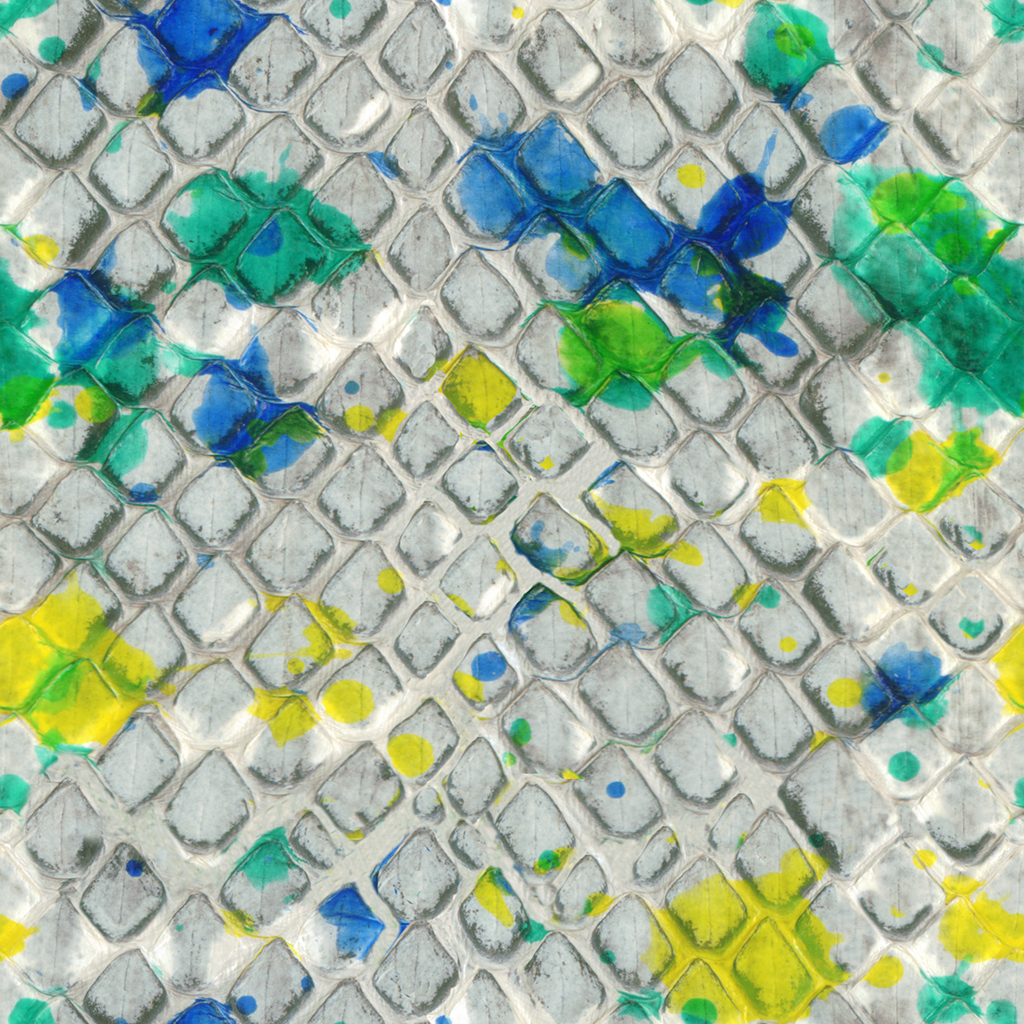
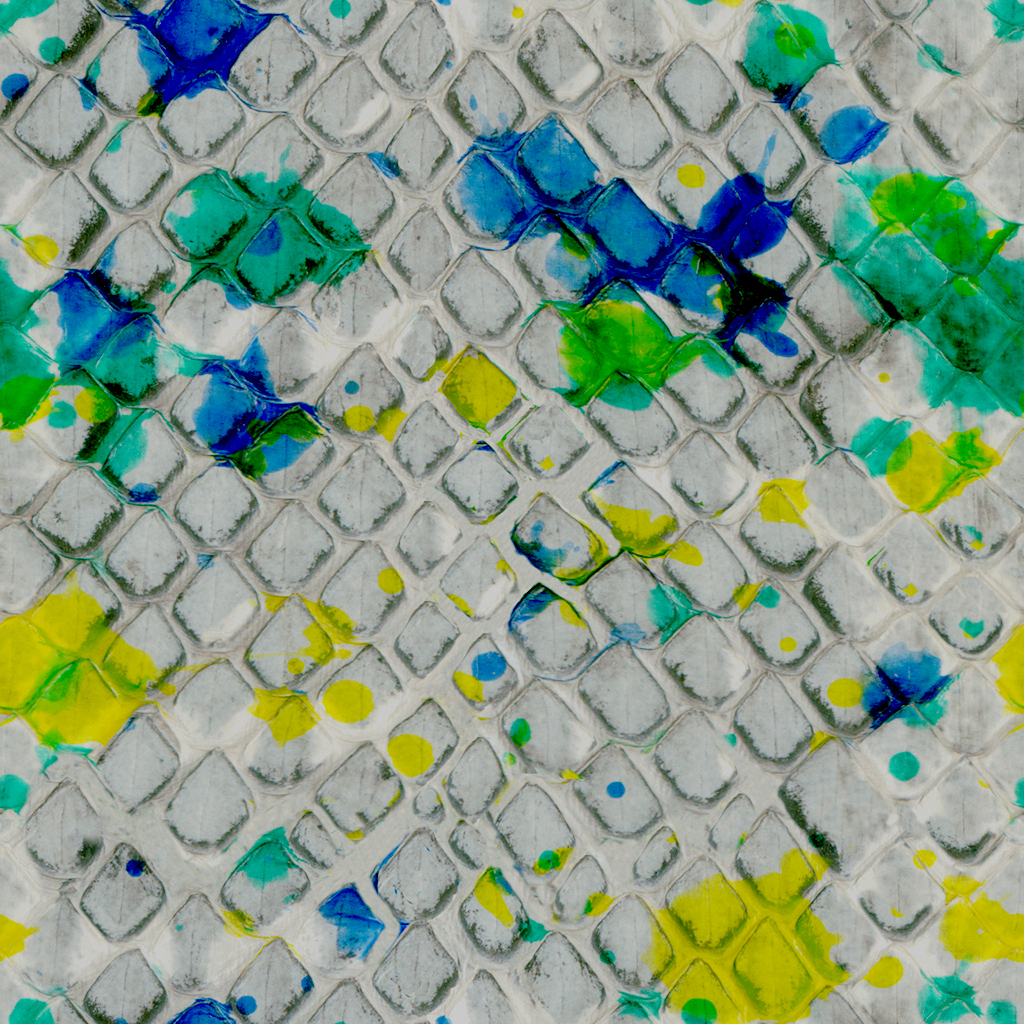
materials update

diff --git a/threeMaterials.js b/threeMaterials.js
@@ -112,7 +112,6 @@ function createLFSmat(color) {
         bumpMap: bump,
         bumpScale: 0.4,
         color: color,
-        //envMap: background,
         metalness: 0.5,
         metalnessMap: metalnessM,
         normalMap: normal,
@@ -125,11 +124,10 @@ function createLFSmat(color) {
 //LLH mat   //OK
 function createLLHmat() {
     var diff = texLoader.load('tex/LLH-01_diff.jpg');
-    repeatTex(diff, 1.2);
+    repeatTex(diff, 1.4);
     var mat = new THREE.MeshStandardMaterial({
         bumpMap: diff,
         bumpScale: 0.3,
-        //envMap: background,
         map: diff,
         metalness: 0,
         roughness: 0.8
@@ -160,18 +158,13 @@ function createLSNmat(diffuse, bump, repeat) {
     repeatTex(diff, repeat);
     var bump = texLoader.load(bump);
     repeatTex(bump, repeat);
-    var metalnessM = texLoader.load('tex/LSN-metalness.jpg');
-    repeatTex(metalnessM, repeat);
-    var roughtnessM = texLoader.load('tex/LSN-roughness.jpg');
-    repeatTex(roughtnessM, repeat);
+
     var mat = new THREE.MeshStandardMaterial({
         bumpMap: bump,
         bumpScale: -0.16,
         map: diff,
         metalness: 0.1,
-        metalnessMap : metalnessM,
         roughness: 0.7,
-        roughnessMap : roughtnessM,
     });
 
     return mat;
@@ -199,31 +192,47 @@ function createLSUmat(color) {
 //Metallic Leather mat  //OKish
 function createMLmat(color) {
     var bump = texLoader.load('tex/ML-bump.jpg');
-    repeatTex(bump, 1.2);
+    repeatTex(bump, 1.4);
     var mat = new THREE.MeshPhysicalMaterial({
         bumpMap: bump,
-        bumpScale: 0.5,
+        bumpScale: 0.24,
         color: color,
-        metalness: 0.1,
-        reflectivity: 0.3,
-        roughness: 0.92,
+        metalness: 0,
+        reflectivity: 0.24,
+        roughness: 1,
     });
 
     return mat;
 }
 
-//MIRROR Leather mat  //OKish
+//MIRROR Leather mat 
 function createMRmat(color) {
-    var bump = texLoader.load('tex/ML-bump.jpg');
-    repeatTex(bump, 1.2);
-    var mat = new THREE.MeshPhysicalMaterial({
+    var bump = texLoader.load('tex/MR-metal-bump.jpg');
+    repeatTex(bump, 4);
+    var normal = texLoader.load('tex/MR-normal.jpg');
+    repeatTex(normal, 4);
+    var mat = new THREE.MeshStandardMaterial({
+        bumpMap: bump,
+        bumpScale: 0.4,
+        color: color,
+        metalness: 0.48,
+        normalMap: normal,
+        roughness: 0.54,
+    });
+
+    return mat;
+}
+
+//BUCKLES  mat  
+function createBKmat(color) {
+    var bump = texLoader.load('tex/MR-metal-bump.jpg');
+    repeatTex(bump, 4);
+    var mat = new THREE.MeshStandardMaterial({
         bumpMap: bump,
         bumpScale: 0.1,
         color: color,
-        //envMap: background,
-        metalness: 0.5,
-        reflectivity: 0,
-        roughness: 0.5,
+        metalness: 0.48,
+        roughness: 0.54,
     });
 
     return mat;
@@ -238,6 +247,20 @@ function createMSmat(color) {
         bumpMap: bump,
         bumpScale: 0.3,
         color: color,
+        metalness: 0.48,
+        roughness: 0.52,
+    });
+
+    return mat;
+}
+
+function createILmat() {
+    var diff = texLoader.load('tex/IL-01.jpg');
+    var bump = texLoader.load('tex/IL-01_bump.jpg');
+    var mat = new THREE.MeshStandardMaterial({
+        // bumpMap: bump,
+        // bumpScale: 0.3,
+        map: diff,
         metalness: 0.48,
         roughness: 0.52,
     });
@@ -272,7 +295,6 @@ function createPTmat(color) {
         bumpMap: bump,
         bumpScale: -0.2,
         color: color,
-        //envMap: background,
         metalness: 0.04,
         reflectivity: 0.26,
         roughness: 0.23
@@ -322,13 +344,13 @@ function createBASICmany(materials) {
     materials.matDarkGrey = createBASICmat(0x585858, 0, 0.7);
     materials.matChrome = createBASICmat(0xffffff, 1, 0.5);
 
-    materials.matSO01 = createSUmat(0xc4bab0); materials.matSO01.name = 'matSO01';
-    materials.matLI01 = createMLmat(0xc4bab0); materials.matLI01.name = 'matLI01';
-    materials.matHG01 = createLHmat(0xc4bab0); materials.matHG01.name = 'matHG01';
+    materials.matSO01 = createSUmat(0xb0a79e); materials.matSO01.name = 'matSO01';
+    materials.matLI01 = createMLmat(0xbab2a1); materials.matLI01.name = 'matLI01';
+    materials.matHG01 = createMLmat(0xc4bab0); materials.matHG01.name = 'matHG01';
     materials.matHT01 = createPTmat(0x0222222); materials.matHT01.name = 'matHT01';
-    materials.matIL01 = createMRmat(0xf4b196); materials.matIL01.name = 'matIL01';
-    materials.matLO01 = createMRmat(0xf4b196); materials.matLO01.name = 'matLO01';
-    materials.matBK01 = createMRmat(0xf4b196); materials.matBK01.name = 'matBK01';
+    materials.matIL01 = createILmat(); materials.matIL01.name = 'matIL01';
+    materials.matLO01 = createBKmat(0xf4b196); materials.matLO01.name = 'matLO01';
+    materials.matBK01 = createBKmat(0xbcb191); materials.matBK01.name = 'matBK01';
     materials.matGE01 = createMRmat(0xf4b196); materials.matGE01.name = 'matGE01';
 }
 
